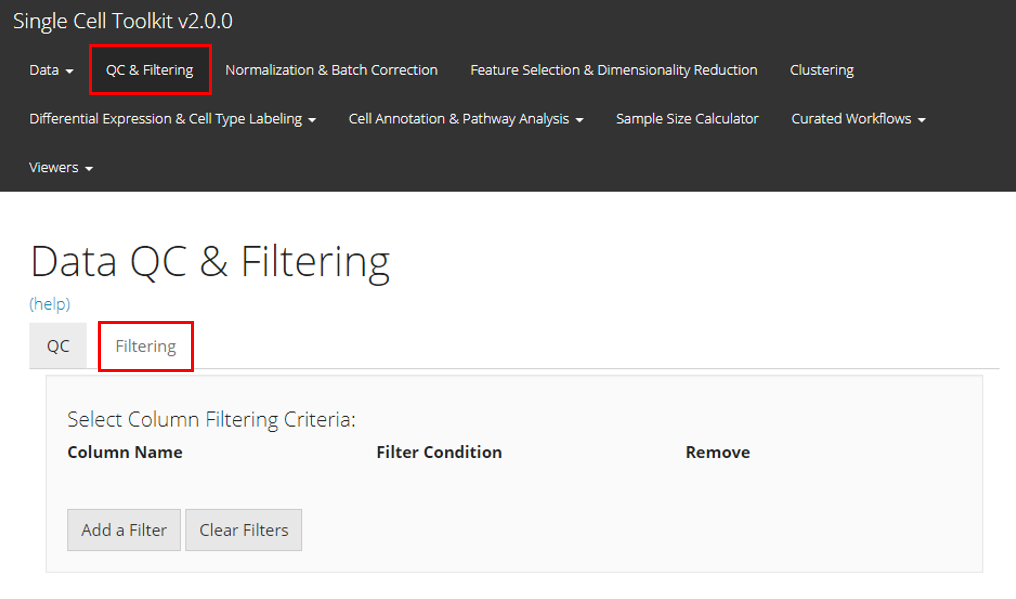
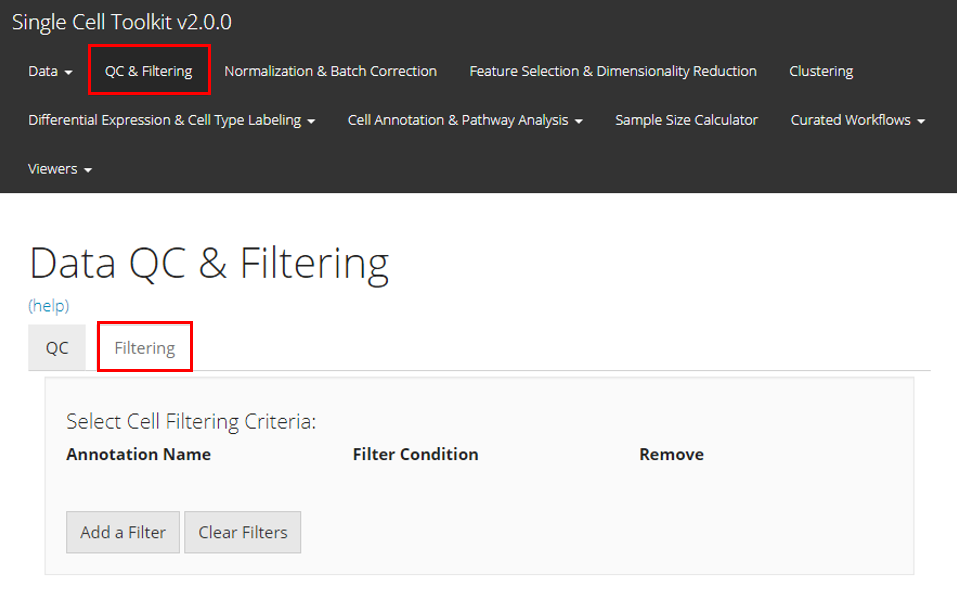
filter ui doc update

diff --git a/docs/articles/ui_filtering.html b/docs/articles/ui_filtering.html
@@ -5,13 +5,13 @@
 <meta charset="utf-8">
 <meta http-equiv="X-UA-Compatible" content="IE=edge">
 <meta name="viewport" content="width=device-width, initial-scale=1.0">
-<title>Filtering/Subsetting the datasets - UI • singleCellTK</title>
+<title>Filtering the datasets - UI • singleCellTK</title>
 <!-- jquery --><script src="https://cdnjs.cloudflare.com/ajax/libs/jquery/3.4.1/jquery.min.js" integrity="sha256-CSXorXvZcTkaix6Yvo6HppcZGetbYMGWSFlBw8HfCJo=" crossorigin="anonymous"></script><!-- Bootstrap --><link href="https://cdnjs.cloudflare.com/ajax/libs/bootswatch/3.4.0/yeti/bootstrap.min.css" rel="stylesheet" crossorigin="anonymous">
 <script src="https://cdnjs.cloudflare.com/ajax/libs/twitter-bootstrap/3.4.1/js/bootstrap.min.js" integrity="sha256-nuL8/2cJ5NDSSwnKD8VqreErSWHtnEP9E7AySL+1ev4=" crossorigin="anonymous"></script><!-- bootstrap-toc --><link rel="stylesheet" href="../bootstrap-toc.css">
 <script src="../bootstrap-toc.js"></script><!-- Font Awesome icons --><link rel="stylesheet" href="https://cdnjs.cloudflare.com/ajax/libs/font-awesome/5.12.1/css/all.min.css" integrity="sha256-mmgLkCYLUQbXn0B1SRqzHar6dCnv9oZFPEC1g1cwlkk=" crossorigin="anonymous">
 <link rel="stylesheet" href="https://cdnjs.cloudflare.com/ajax/libs/font-awesome/5.12.1/css/v4-shims.min.css" integrity="sha256-wZjR52fzng1pJHwx4aV2AO3yyTOXrcDW7jBpJtTwVxw=" crossorigin="anonymous">
 <!-- clipboard.js --><script src="https://cdnjs.cloudflare.com/ajax/libs/clipboard.js/2.0.6/clipboard.min.js" integrity="sha256-inc5kl9MA1hkeYUt+EC3BhlIgyp/2jDIyBLS6k3UxPI=" crossorigin="anonymous"></script><!-- headroom.js --><script src="https://cdnjs.cloudflare.com/ajax/libs/headroom/0.11.0/headroom.min.js" integrity="sha256-AsUX4SJE1+yuDu5+mAVzJbuYNPHj/WroHuZ8Ir/CkE0=" crossorigin="anonymous"></script><script src="https://cdnjs.cloudflare.com/ajax/libs/headroom/0.11.0/jQuery.headroom.min.js" integrity="sha256-ZX/yNShbjqsohH1k95liqY9Gd8uOiE1S4vZc+9KQ1K4=" crossorigin="anonymous"></script><!-- pkgdown --><link href="../pkgdown.css" rel="stylesheet">
-<script src="../pkgdown.js"></script><meta property="og:title" content="Filtering/Subsetting the datasets - UI">
+<script src="../pkgdown.js"></script><meta property="og:title" content="Filtering the datasets - UI">
 <meta property="og:description" content="singleCellTK">
 <!-- mathjax --><script src="https://cdnjs.cloudflare.com/ajax/libs/mathjax/2.7.5/MathJax.js" integrity="sha256-nvJJv9wWKEm88qvoQl9ekL2J+k/RWIsaSScxxlsrv8k=" crossorigin="anonymous"></script><script src="https://cdnjs.cloudflare.com/ajax/libs/mathjax/2.7.5/config/TeX-AMS-MML_HTMLorMML.js" integrity="sha256-84DKXVJXs0/F8OTMzX4UR909+jtl4G7SPypPavF+GfA=" crossorigin="anonymous"></script><!--[if lt IE 9]>
 <script src="https://oss.maxcdn.com/html5shiv/3.7.3/html5shiv.min.js"></script>
@@ -167,7 +167,7 @@
       </header><script src="ui_filtering_files/accessible-code-block-0.0.1/empty-anchor.js"></script><div class="row">
   <div class="col-md-9 contents">
     <div class="page-header toc-ignore">
-      <h1 data-toc-skip>Filtering/Subsetting the datasets - UI</h1>
+      <h1 data-toc-skip>Filtering the datasets - UI</h1>
             
       
       <small class="dont-index">Source: <a href="https://github.com/compbiomed/singleCellTK/blob/master/vignettes/ui_filtering.Rmd"><code>vignettes/ui_filtering.Rmd</code></a></small>
@@ -179,25 +179,30 @@
     
 <p><img src="filter_ui_entry.png" alt="entry"><br></p>
 <p>This section of the toolkit allows users to filter their single-cell dataset after running QC metrics or apply subsetting basing on other types of criteria. Users should enter this section as instructed by the screenshot above.</p>
-<p>Here we will take the example PBMC3K dataset as an example. We imported this dataset through the <strong>“Data” -&gt; “Import Single Cell Data” tab</strong>, by selecting <strong>“Import example datasets”</strong> first and using the default <strong>“PBMC 3K (10X)”</strong> option then. We next applied three QC methods: General QC metrics, DecontX, and scDblFinder, with all default parameters. Below we will have the plots as generated by SCTK.</p>
 <p><img src="filter_ui_egQC.png" alt="egQC"><br></p>
-<div id="filtering-by-columns" class="section level2">
+<p>Here we will take the example PBMC3K dataset as an example. We imported this dataset through the <strong>“Data” -&gt; “Import Single Cell Data” tab</strong>, by selecting <strong>“Import example datasets”</strong> first and using the default <strong>“PBMC 3K (10X)”</strong> option then. We next applied three QC methods: General QC metrics, DecontX, and scDblFinder, with all default parameters. Below we will have the plots as generated by SCTK.</p>
+<div id="adding-filters-for-cells" class="section level2">
 <h2 class="hasAnchor">
-<a href="#filtering-by-columns" class="anchor"></a>Filtering by Columns</h2>
-<p>To filter by columns, the user must click the “Add a Filter” button in the Select Column Filtering Criteria" panel. A pop-up will appear which asks the user to select which column to filter, and based on that selection, more input fields will appear for the user to specify how they would like to filter. If the column contains categorial information, the user will have to select which values to keep. If the column contains numerical values, the user must provide a threshold value so that the filter will keep all values above that threshold.</p>
-<p><img src="ui_screenshots/filter_col_cat.png" width="450"><img src="ui_screenshots/filter_col_num.png" width="450"></p>
+<a href="#adding-filters-for-cells" class="anchor"></a>Adding Filters for Cells</h2>
+<p>To filter by cells, users must click the “<strong>Add a Filter</strong>” button in the “<strong>Select Cell Filtering Criteria</strong>” panel. A pop-up will appear which asks users to select by which annotation to filter. Based on that selection, more input fields will appear for users to specify how they would like to set the filter.<br>
+- If the annotation contains categorical information, mostly presented by text or TRUE/FALSE values, users will have to select which categories to keep;<br>
+- If the annotation contains numeric values that might stand for categorical information, users will be asked whether to treat them as categories with a check-box “<strong>Convert to categorical filter</strong>”. If users check this, users will have to select which categories to keep;<br>
+- If users do not want to treat the category-like numeric values in the condition above, or the annotation contains true numeric values, users will have to set a valid range of value to keep. For keeping cells with the value greater than a threshold, check “<strong>Greater than</strong>” and input the number; for keeping cells with the value less than a threshold, check “<strong>Less than</strong>” and input the number. Users can also check both threshold for double ended range setting.<br>
+After setting each criterion, users have to click on “<strong>OK</strong>” button to save it to the criterion table. Users can again press “<strong>Add a Filter</strong>” to add more criteria.</p>
+<p><img src="filter_ui_column.png" alt="columns"><br></p>
 </div>
-<div id="filtering-by-rows" class="section level2">
+<div id="adding-filters-for-features" class="section level2">
 <h2 class="hasAnchor">
-<a href="#filtering-by-rows" class="anchor"></a>Filtering by Rows</h2>
-<p>To filter by rows, the user must click the “Add a Filter” button in the Select Row Filtering Criteria" panel, and a pop-up will appear which asks the user to select which specify which rows to filter out. Rows are filtered by specifying how many counts genes should appear in how many cells by assay, so the user must first select an assay from the dropdown menu. Then, in the two numeric input fields that will appear, the user must specify how many counts and in how many cells they want to see the gene.</p>
-<p><img src="ui_screenshots/filter_assay.png"></p>
+<a href="#adding-filters-for-features" class="anchor"></a>Adding Filters for features</h2>
+<p>To filter by features, users must click the “<strong>Add a Filter</strong>” button in the “<strong>Select Feature Filtering Criteria</strong>” panel. A pop-up will appear which asks users to set the parameters to filter out features. Features are filtered by specifying at least how many counts a gene should be expressed in at least how many cells. Users must first select a expression matrix from the dropdown menu at top of the pop-up. Then, users have to input the numbers in the following numeric fields as explained. To save the the criterion, users must click “<strong>OK</strong>”.</p>
+<p><img src="filter_ui_row.png" alt="row"><br></p>
 </div>
 <div id="applying-filters" class="section level2">
 <h2 class="hasAnchor">
 <a href="#applying-filters" class="anchor"></a>Applying Filters</h2>
-<p>For both row and column filtering, once a criterion has been specified in the pop-up, the user must click “OK” to see it in the corresponding table on the main page. Once the user has defined all their filtering criteria, the user must click “Filter” to apply the filters to the SCE object.</p>
-<p><img src="ui_screenshots/filter_complete.png"></p>
+<p>Once users have defined all their filtering criteria, the user must click “Filter” to apply the filters to the single-cell dataset.</p>
+<p><img src="filter_ui_run.png" alt="run"><br><img src="filter_ui_result.png" alt="result"><br></p>
+<p>Finally, two tables of the data summary will appear at the bottom for comparing how the filtering works on the dataset.</p>
 </div>
   </div>
 
